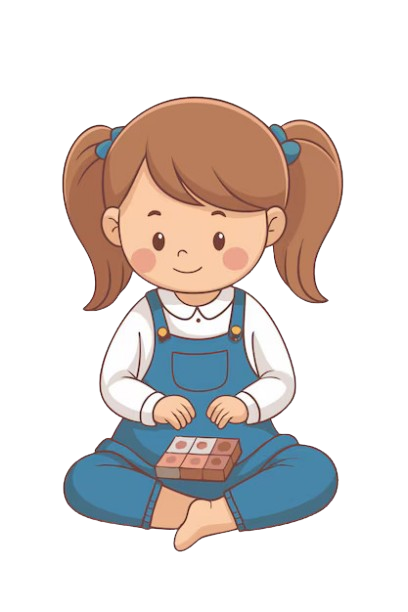
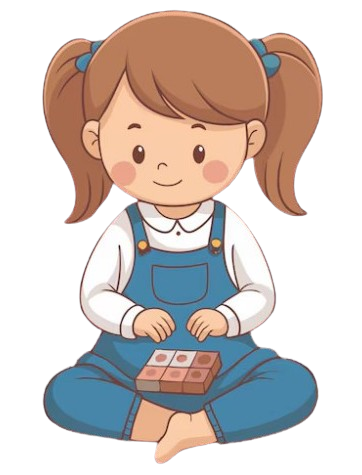
corners

diff --git a/index.html b/index.html
@@ -40,7 +40,7 @@
           
         </form>
     </div>
-    <div class="row"  style="background-color: yellow;">
+    <div class="row">
     <div class="children col" >
         <img src="children_play.png" alt="childrens playing" height="200px" width="300px">
     </div>
@@ -48,7 +48,7 @@
     <div class="col"></div>
     <div class="col"></div>
     <div class="girl col">
-        <img src="girl.png" alt="girl" height="300px" width="300px" style="background-color: aquamarine;">
+        <img src="girl.png" alt="girl" height="230px" width="230px">
     </div>
     </div>
 

diff --git a/style.css b/style.css
@@ -37,7 +37,7 @@ h2{
     padding-top: 20px;
     font-size: 40px;
     font-family: papyrus;
-    /* background-color: aliceblue; */
+   
 
 }
 .children{
@@ -45,10 +45,10 @@ h2{
     padding-bottom: 15rem;
     height: 1rem;
     width: 3rem;
-    background-color: yellow;
+    
 }
 
 .girl{
     margin-left: 0rem;
-    background-color: aqua;
+    padding-left: 500px;
 }
